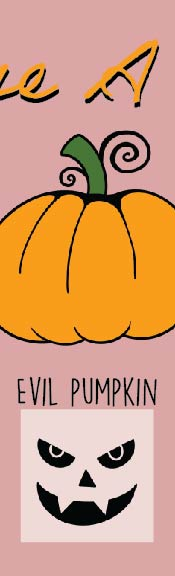
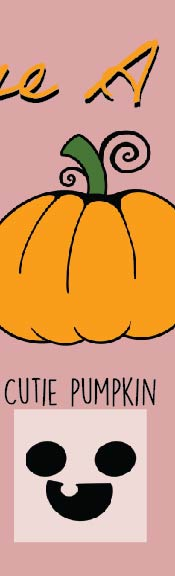
Add files via upload

diff --git a/funinthefall/choosepumpface.html b/funinthefall/choosepumpface.html
@@ -7,6 +7,6 @@
 		<title>Welcome to Fun in the Fall!</title>
 	</head>
 	<body>
-		<a href="happypump.html"><img src="FunInTheFall_choosepumpface1.jpg"></a><a href="evilpump.html"><img src="FunInTheFall_choosepumpface2.jpg"></a><a href="cutiepump.html"><img src="FunInTheFall_choosepumpface3.jpg"></a>
+		<a href="happypump.html"><img src="FunInTheFall_choosepumpface1.jpg"></a><a href="cutiepump.html"><img src="FunInTheFall_choosepumpface2.jpg"></a><a href="evilpump.html"><img src="FunInTheFall_choosepumpface3.jpg"></a>
 	</body>
 </html>
